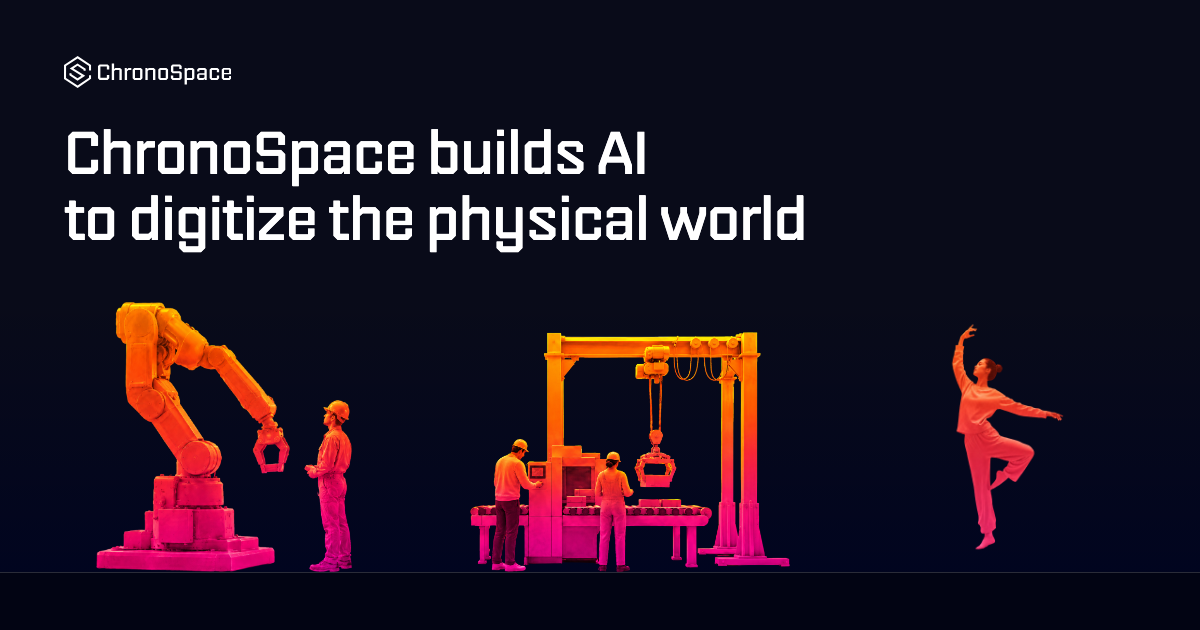
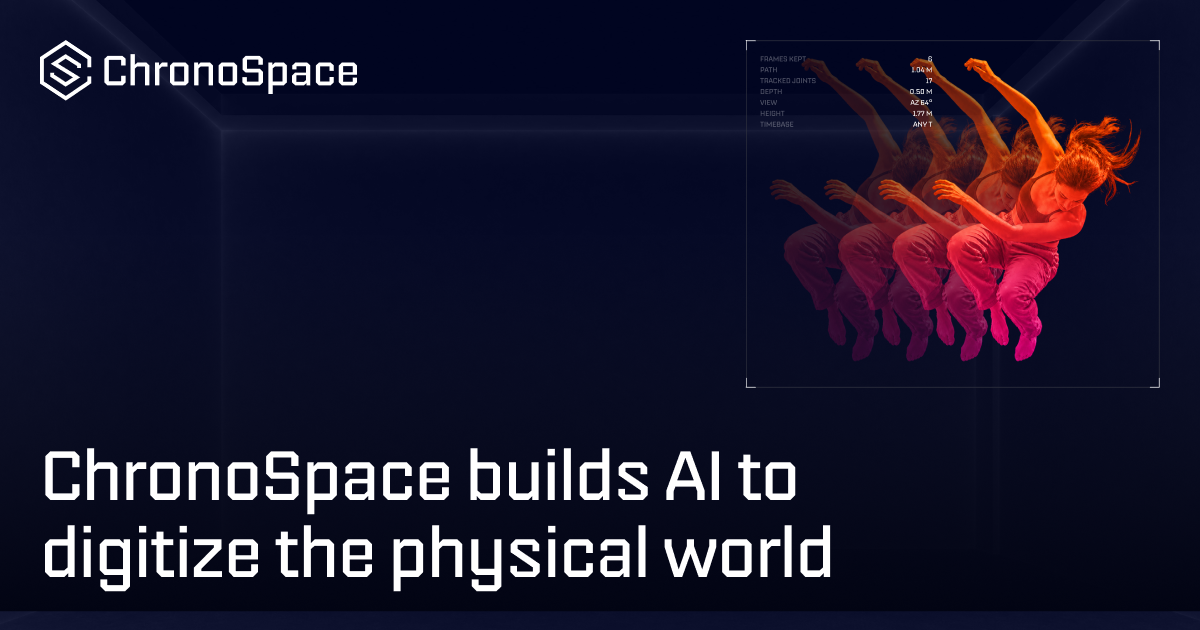
Replace the share card with the client's new composition (17 Sep 2026): the wordmark top left, the hero headline set large across the bottom, and the echo dancer's colour cutout in its measured frame on the room's back wall, at the same 1200x630 as before; the file is the delivered PNG with its unus

diff --git a/docs/asset-swap-guide.md b/docs/asset-swap-guide.md
@@ -72,7 +72,7 @@ them - but each is a plain file that can be overwritten in place.
 
 | File                                                                 | Size and format                                                                                                                               | What reads it                                                                            |
 | -------------------------------------------------------------------- | --------------------------------------------------------------------------------------------------------------------------------------------- | ---------------------------------------------------------------------------------------- |
-| `public/og.png`                                                      | 1200x630, PNG or JPEG, opaque, under 300 KB.                                                                                                  | Every link unfurler (`og:image`, `twitter:image`; declared in `src/lib/metadata.ts`).    |
+| `public/og.png`                                                      | 1200x630, PNG or JPEG, opaque, under 500 KB.                                                                                                  | Every link unfurler (`og:image`, `twitter:image`; declared in `src/lib/metadata.ts`).    |
 | `src/app/icon.svg`                                                   | Square viewBox, transparent, the mark in the client's favicon grey (`#939393`) at 71% of the tile, centred; the mid grey reads on light and dark tab bars alike. | Modern browsers' tab icon.                                                               |
 | `src/app/favicon.ico`                                                | 16 + 32 + 48 (PNG-in-ICO), transparent, the grey mark at 71%, no outline.                                                                     | Browsers without SVG favicons, bookmarks, Windows.                                       |
 | `src/app/icon.png`                                                   | 64x64, transparent, same drawing as the `.ico` (this one is the client's own file, `public/09/favicon-chronospace-new.png`, as delivered).    | The PNG fallback Next emits next to the `.ico`.                                          |
